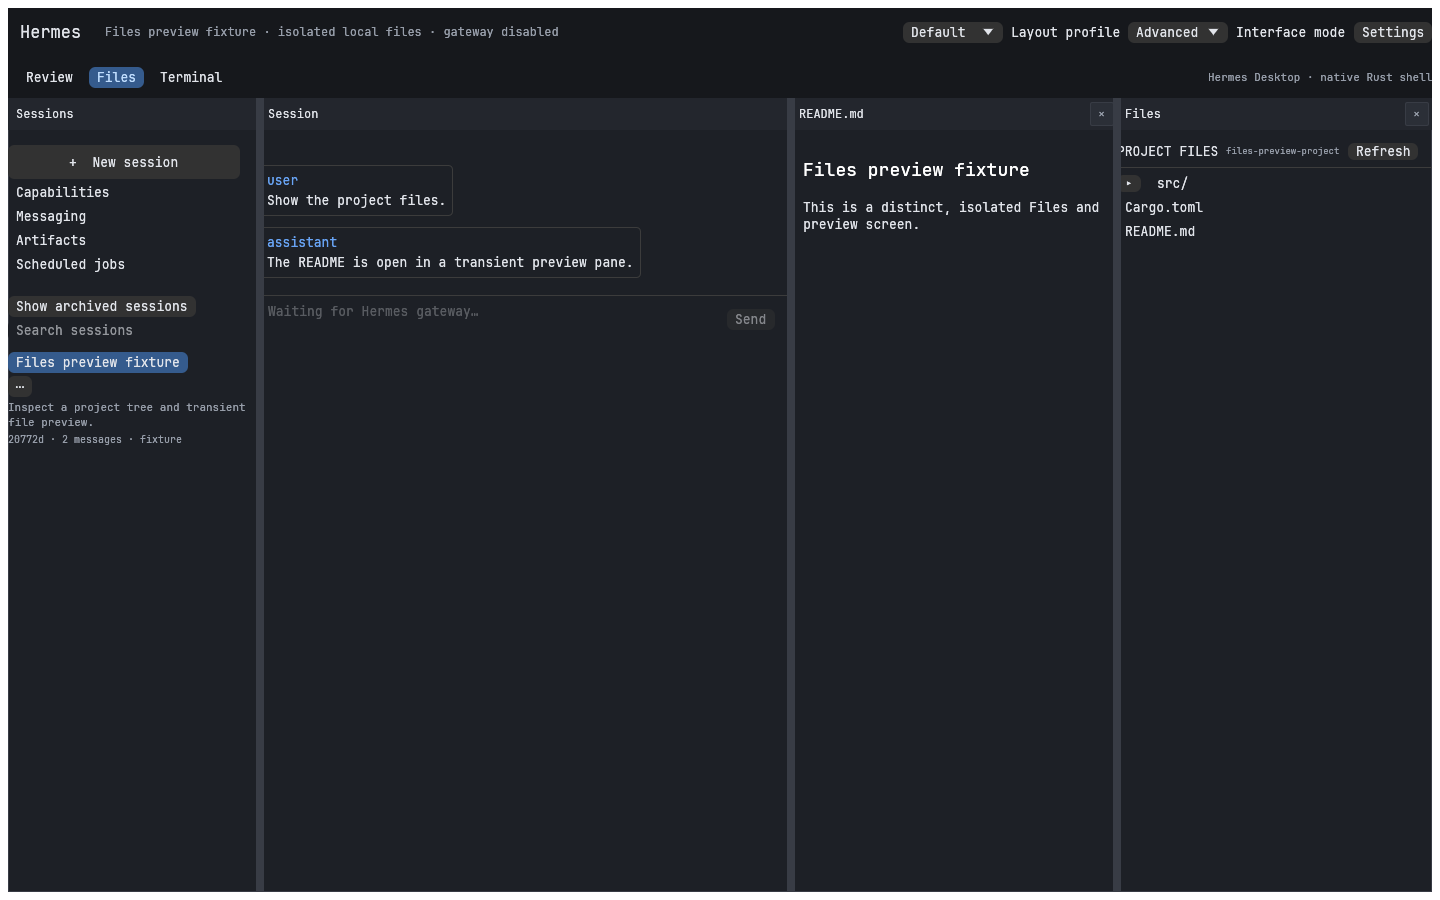
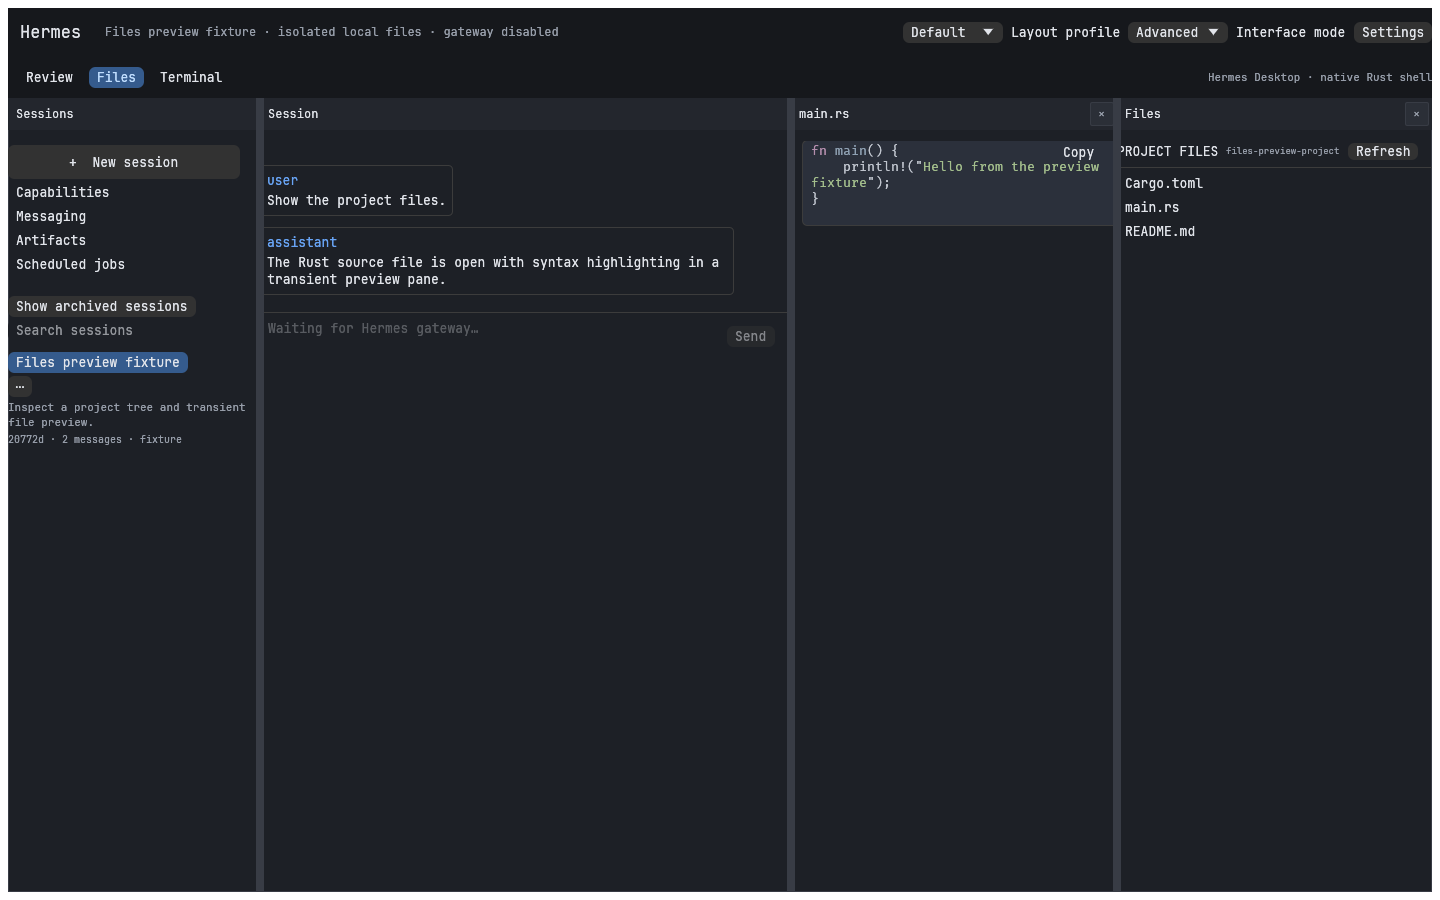
Capture syntax highlighted file preview state

diff --git a/docs/EXECUTION_LOGS.md b/docs/EXECUTION_LOGS.md
@@ -103,3 +103,4 @@ Append-only records for this workspace.
 {"timestamp":"2026-11-15T13:11:30Z","request_id":"hermes-ui-parity-20261115-agent-semantic-fill-validation","intent":"Complete validation for exact semantic text-field fill","tool/action":"Run formatting check, full automation-feature test suite, all-target feature check and diff check","inputs":{"implementation":"actions.fill with AccessKit SetValue","test_id":"semantic_fill_replaces_and_clears_accessible_text_inputs"},"preconditions":"Focused fill regression passes for insertion, exact replacement and clearing","postconditions":"Complete automation suite and feature build pass","result":"123 library + 11 automation tests passed; formatting, all-target feature check and diff check passed","error":"None","duration_ms":15000,"affected_files":["apps/hermes-native/src/bin/hermes_automation/automation_protocol.rs","apps/hermes-native/docs/AGENT_AUTOMATION_PROTOCOL.md","apps/hermes-native/docs/CHANGELOG.agent.md","docs/CHANGELOG.agent.md"]}
 {"timestamp":"2026-11-15T13:11:54Z","request_id":"hermes-ui-parity-20261115-publish-agent-fill","intent":"Publish exact semantic fill for background UI automation","tool/action":"Push validated implementation and verify synchronized origin/main","inputs":{"implementation_commit":"13d5ff4d6d26516ecd671dba21eb1bd7bbb86afd","remote":"origin/main"},"preconditions":"Formatting, 123 library + 11 automation tests, all-target feature check and diff check passed; origin/main matched 83dca56c857332ba7aa8f87c0d9695be205441ea","postconditions":"Semantic fill is published; local main and origin/main are synchronized","result":"Push advanced origin/main to 13d5ff4d6d26516ecd671dba21eb1bd7bbb86afd","error":"None","duration_ms":3000,"affected_files":["Git refs main and origin/main","apps/hermes-native/src/bin/hermes_automation/automation_protocol.rs","agent automation documentation"]}
 {"timestamp":"2026-11-15T14:05:55Z","request_id":"hermes-ui-parity-20261115-files-syntax-preview","intent":"Add native syntax-highlighted source previews to the isolated Files fixture","tool/action":"Wrap recognized UTF-8 source files in safe language fences for CommonMark highlighting; change fixture to open main.rs; run required validation","inputs":{"pinned_hermes_sha":"8783054ef6cbafd86f10892241436862c1171a66","behavior":"source-observed code syntax highlighting","capability_id":"ui-files-preview-syntax-highlighting","test_id":"PAR-0104"},"preconditions":"Files tree and transient preview slice exists; target repo main was ed9bb42327dad942ba3686259d67f857d1eb913c","postconditions":"Code preview fixture visibly opens main.rs with Rust syntax colors; formal source-paired acceptance remains pending","result":"129 library + 11 automation tests passed; fmt check, all-target agent-automation check, and diff check passed; 1440x900 target screenshot visually inspected","error":"None","duration_ms":15000,"affected_files":["apps/hermes-native/src/files.rs","apps/hermes-native/src/app.rs","apps/hermes-native/README.md","apps/hermes-native/docs/AGENT_AUTOMATION.md","apps/hermes-native/docs/ARCHITECTURE.md","apps/hermes-native/docs/PLAN.md","artifacts/agent-ui/files-preview-v1.png"]}
+{"timestamp":"2026-11-15T14:06:41Z","request_id":"hermes-ui-parity-20261115-files-preview-capture","intent":"Capture and bind the syntax-highlighted Files preview to the published source revision","tool/action":"Run isolated files-preview fixture with AccessKit inspection and 1440x900 screenshot; atomically update and validate screenshot metadata","inputs":{"target_commit":"259f7a6e","route":"/files-preview-fixture","gateway":"disabled"},"preconditions":"Feature commit is published on origin/main; fixture binaries built from that commit","postconditions":"Screenshot sidecar records commit and exact screenshot/binary digests; formal parity remains pending","result":"AccessKit inspect and screenshot succeeded; metadata dimensions 1440x900 and hashes validated","error":"None","duration_ms":3000,"affected_files":["artifacts/agent-ui/files-preview-v1.png","artifacts/agent-ui/files-preview-v1.json"]}

diff --git a/docs/CHANGELOG.agent.md b/docs/CHANGELOG.agent.md
@@ -693,3 +693,13 @@ HUI-054/HUI-055 publication: `13d5ff4d6d26516ecd671dba21eb1bd7bbb86afd` is publi
 - **performance:** Reuses the existing preview worker and CommonMark renderer; no additional I/O path.
 - **risks:** Preview formats remain partial; target-only capture is not source-paired Hermes parity evidence; PAR-0104 remains pending.
 - **follow_up:** Publish this slice, bind a distinct code-preview capture to the published commit, then continue the next pinned Files requirement.
+- **id:** HUI-057
+- **timestamp:** 2026-11-15T14:06:41Z
+- **what:** Refreshed the isolated Rust code-preview screenshot and bound its metadata to published commit `259f7a6e`.
+- **why:** Provide a visibly distinct, reproducible capture of the current Files-preview state.
+- **components:** Agent automation fixture, screenshot artifact and sidecar metadata.
+- **type:** capture and verification.
+- **validation:** AccessKit inspection confirms Files-preview fixture state; PNG dimensions are 1440×900; screenshot and binary SHA-256 values recorded; image visually inspected.
+- **performance:** Fixture setup and capture complete in about three seconds.
+- **risks:** This remains synthetic target-only evidence and does not establish source-paired or native-host parity.
+- **follow_up:** Continue pinned-source implementation; keep formal acceptance rows pending until corresponding paired evidence exists.
